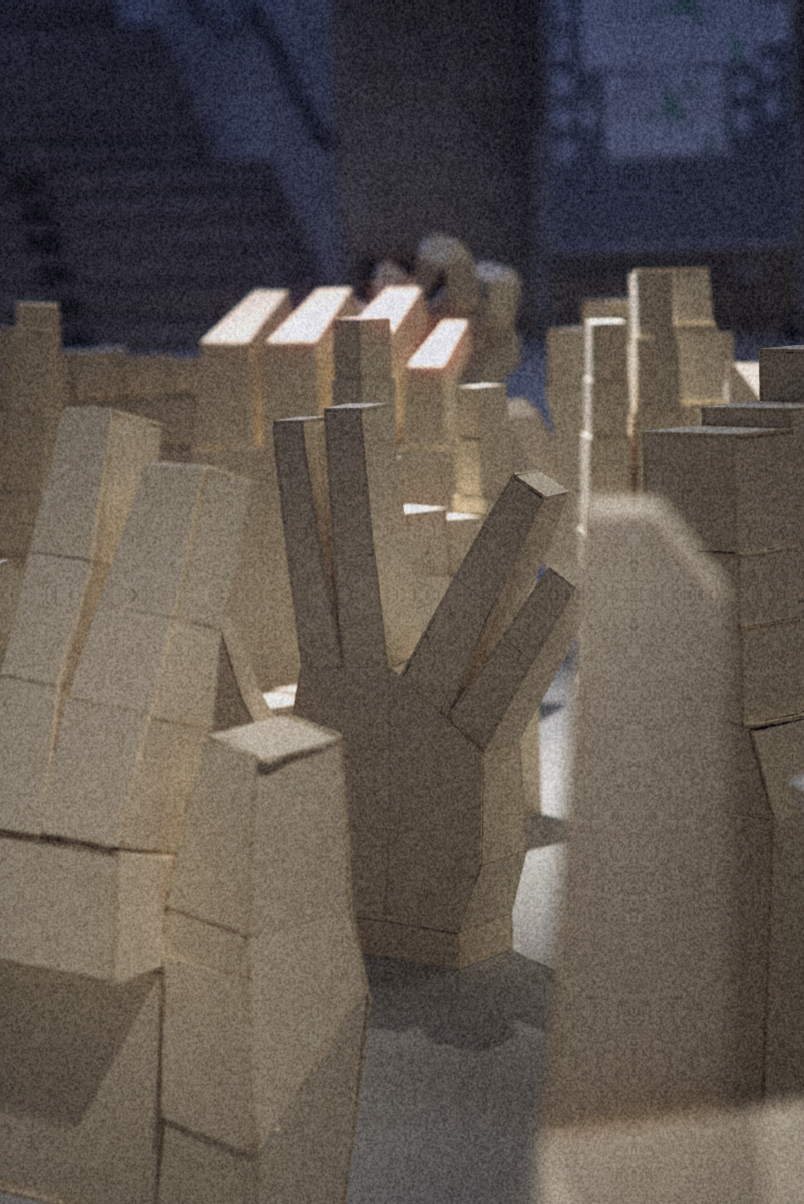
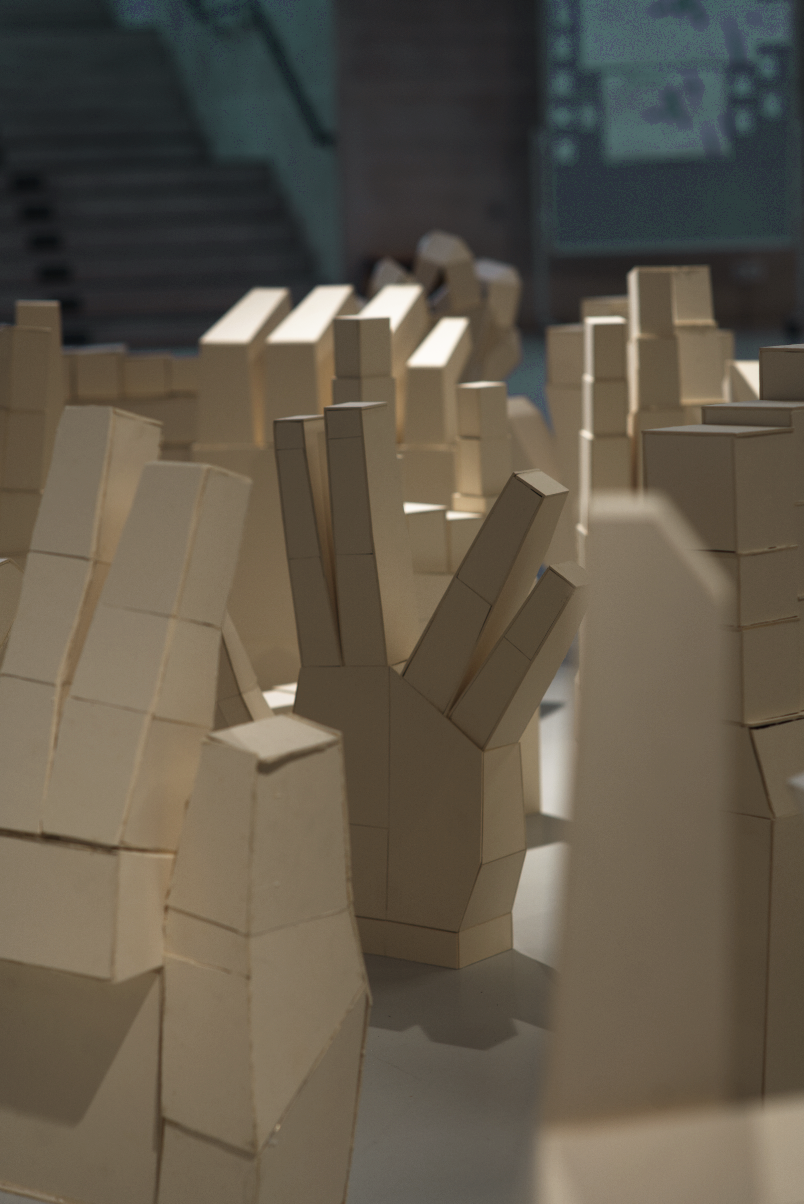
not working split tone

diff --git a/src/main/kotlin/Processing.kt b/src/main/kotlin/Processing.kt
@@ -9,10 +9,7 @@ import org.opencv.core.CvType.CV_8UC3
 import org.opencv.imgcodecs.Imgcodecs
 import org.opencv.imgproc.Imgproc
 import org.opencv.imgproc.Imgproc.GaussianBlur
-import kotlin.math.PI
-import kotlin.math.cos
-import kotlin.math.pow
-import kotlin.math.sin
+import kotlin.math.*
 import kotlin.random.Random
 
 
@@ -166,8 +163,68 @@ fun ProcessingDsl.colorCast(image: Mat, config: Config) {
 
 fun ProcessingDsl.tone(image: Mat, config: Config) {
     val hsv by stored { Mat() }
-    val mask by stored { Mat() }
+    val hue by stored { Mat() }
     Imgproc.cvtColor(image, hsv, Imgproc.COLOR_BGR2HSV)
+    Core.extractChannel(hsv, hue, 0)
+    Core.multiply(hue, Scalar.all(255.0 / 179.0), hue)
+
+    val orangeRangeLut by stored {
+        createSplineLUT(
+            listOf(
+                Knot(0.1f, 1.0f),
+                Knot(0.2f, 0.0f),
+                Knot(0.9f, 0.0f),
+                Knot(1.0f, 1.0f)
+            )
+        )
+    }
+
+    val orangeTonesMask by stored { Mat() }
+    Core.LUT(hue, orangeRangeLut, orangeTonesMask)
+    val orangeTonesMaskI by stored { Mat() }
+    Core.absdiff(orangeTonesMask, Scalar.all(255.0), orangeTonesMaskI)
+
+    val warmWeight = min(1.0 / 3.0, config.warmStrength.toDouble())
+    val warmHue by stored(listOf(config.warmHue)) {
+        val mat = Mat.zeros(image.size(), CvType.CV_8U)
+        mat.setTo(Scalar(config.warmHue.toDouble()))
+        mat
+    }
+    val warmHuePortion = run {
+        val mat by stored { Mat() }
+        Core.multiply(warmHue, orangeTonesMask, mat, 1.0 / 255.0 * warmWeight)
+        mat
+    }
+    val coldWeight = min(1.0 / 3.0, config.coldStrength.toDouble())
+    val coldHue by stored(listOf(config.coldHue)) {
+        val mat = Mat.zeros(image.size(), CvType.CV_8U)
+        mat.setTo(Scalar(config.coldHue.toDouble()))
+        mat
+    }
+    val coldHuePortion = run {
+        val mat by stored { Mat() }
+        Core.multiply(coldHue, orangeTonesMaskI, mat, 1.0 / 255.0 * coldWeight)
+        mat
+    }
+    Core.addWe
+    val originWeight = 1.0 - warmWeight - coldWeight
+    val originHuePortion = run {
+        val warmI by stored { Mat() }
+        Core.multiply(hue, orangeTonesMaskI, warmI, 1.0 / 255.0 * (1 - warmWeight))
+        val coldI  by stored { Mat() }
+        Core.multiply(hue, orangeTonesMask, coldI, 1.0 / 255.0 * (1 - coldWeight))
+        val mat by stored { Mat() }
+        Core.add(coldI, warmI, mat)
+        mat
+    }
+
+    originHuePortion.copyTo(hue)
+    Core.add(hue, warmHuePortion, hue)
+    Core.add(hue, coldHuePortion, hue)
+
+    Core.multiply(hue, Scalar.all(179.0 / 255.0), hue)
+    Core.insertChannel(hue, hsv, 0)
+    Imgproc.cvtColor(hsv, image, Imgproc.COLOR_HSV2BGR)
 }
 
 /*fun ProcessingDsl.applyLUT(image: Mat) {

diff --git a/src/main/kotlin/Config.kt b/src/main/kotlin/Config.kt
@@ -14,6 +14,10 @@ data class Config(
     val sigmaX: Float,
     val gaussianSize: BlurSize,
     val colorCast: Color,
+    val warmHue: Float,
+    val warmStrength: Float,
+    val coldHue: Float,
+    val coldStrength: Float,
     val crushedLuminanceStrength: Float,
 ) {
     companion object {
@@ -25,6 +29,10 @@ data class Config(
             sigmaX = 0.0f,
             gaussianSize = BlurSize(99.0f, 99.0f),
             colorCast = Color(0.0f, 0.0f, 0.1f),
+            warmHue = 0.08f,
+            warmStrength = 0.2f,
+            coldHue = 0.58f,
+            coldStrength = 0.0f,
             crushedLuminanceStrength = 0.5f,
         )
     }
@@ -37,6 +45,7 @@ data class Color(
     val blue: Float,
 ) {
     fun toScalar() = Scalar(blue * 255.0, green * 255.0, red * 255.0)
+    operator fun div(i: Number) = Color(red / i.toFloat(), green / i.toFloat(), red / i.toFloat())
 }
 
 @Serializable

diff --git a/src/main/kotlin/Utils.kt b/src/main/kotlin/Utils.kt
@@ -28,7 +28,7 @@ fun createGammaLUT(gammaValue: Double): Mat {
 fun createSplineLUT(knots: List<Knot>): Mat {
     val spline = FloatBezierSpline<Vector2F>()
     spline.addKnots(*knots.map { Vector2F(x = it.x, y = it.y) }.toTypedArray())
-    return createLUT { i -> (spline.getCoordinatesAt(i / 256.0f).y * 256).toInt().toByte() }
+    return createLUT { i -> (spline.getCoordinatesAt(i / 255.0f).y * 255).toInt().toByte() }
 }
 
 fun createSplineLUT(vararg knots: Knot) = createSplineLUT(knots.toList())

diff --git a/src/main/kotlin/Images.kt b/src/main/kotlin/Images.kt
@@ -35,7 +35,8 @@ fun main() {
                 )
             )
         Core.LUT(destination, contrastLut, destination)
-        process(destination, destination, config)
+        Imgcodecs.imwrite("./assets/spok-im.png", destination)
+        tone(destination, config)
     }
     Imgcodecs.imwrite("./assets/spok-edit.png", destination)
 }
